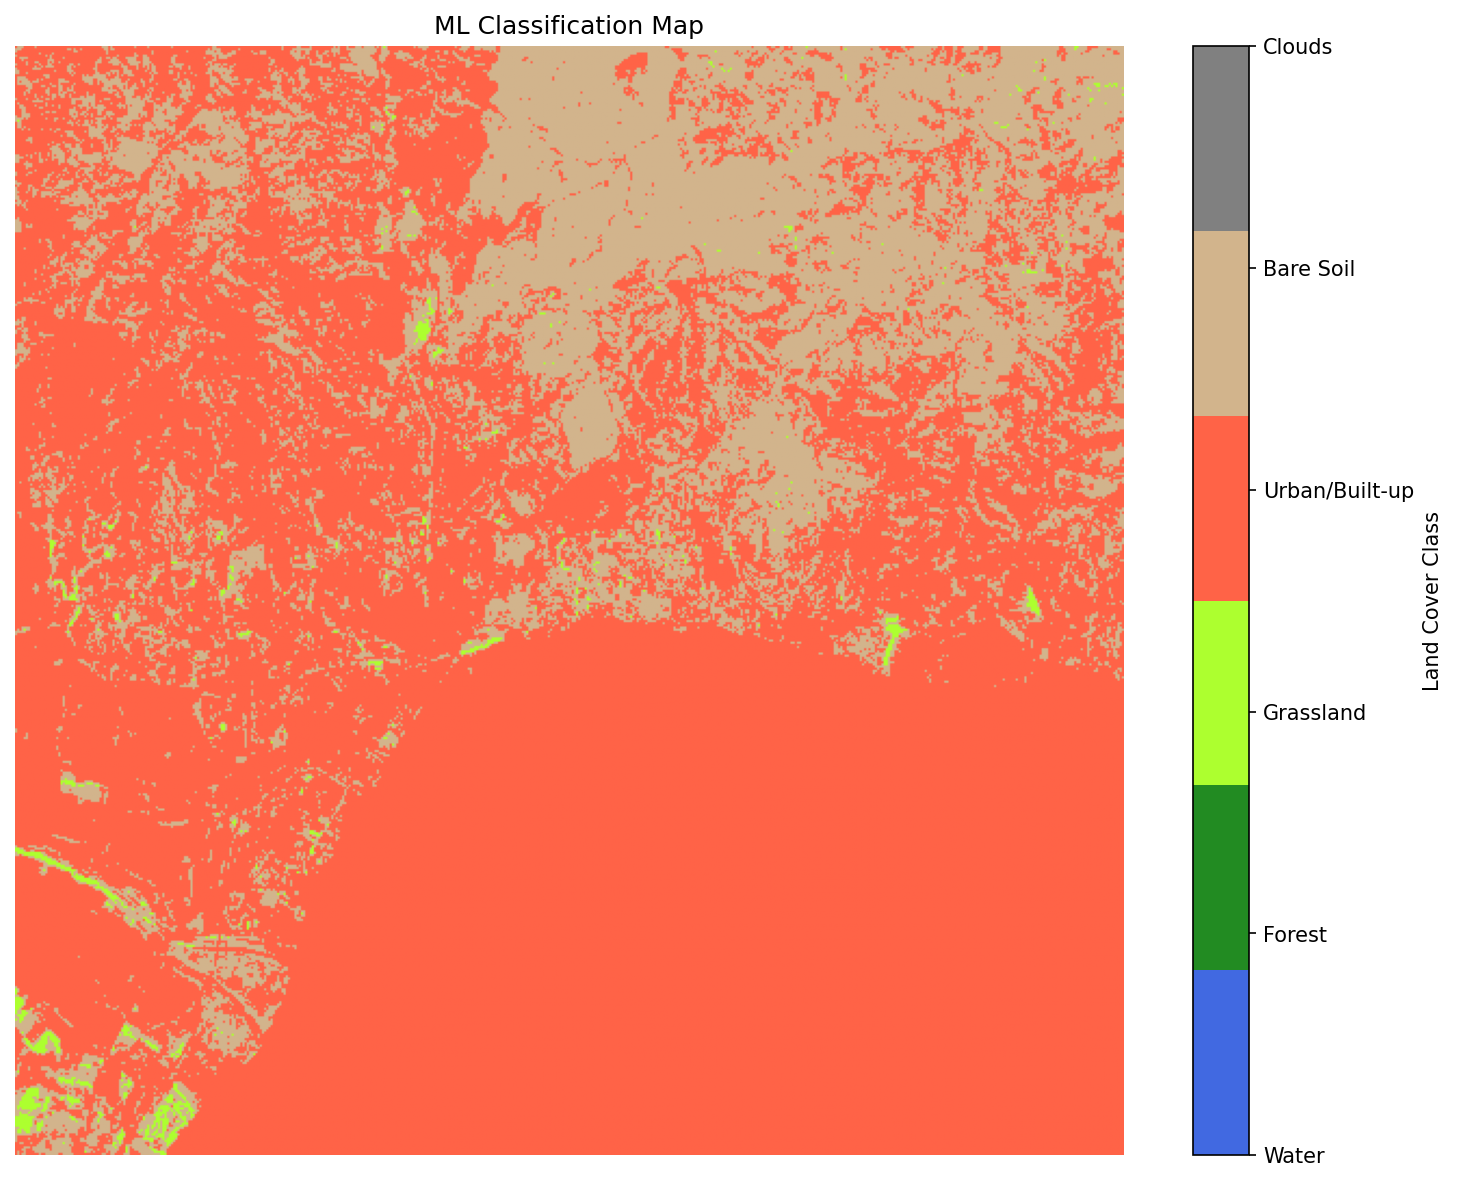
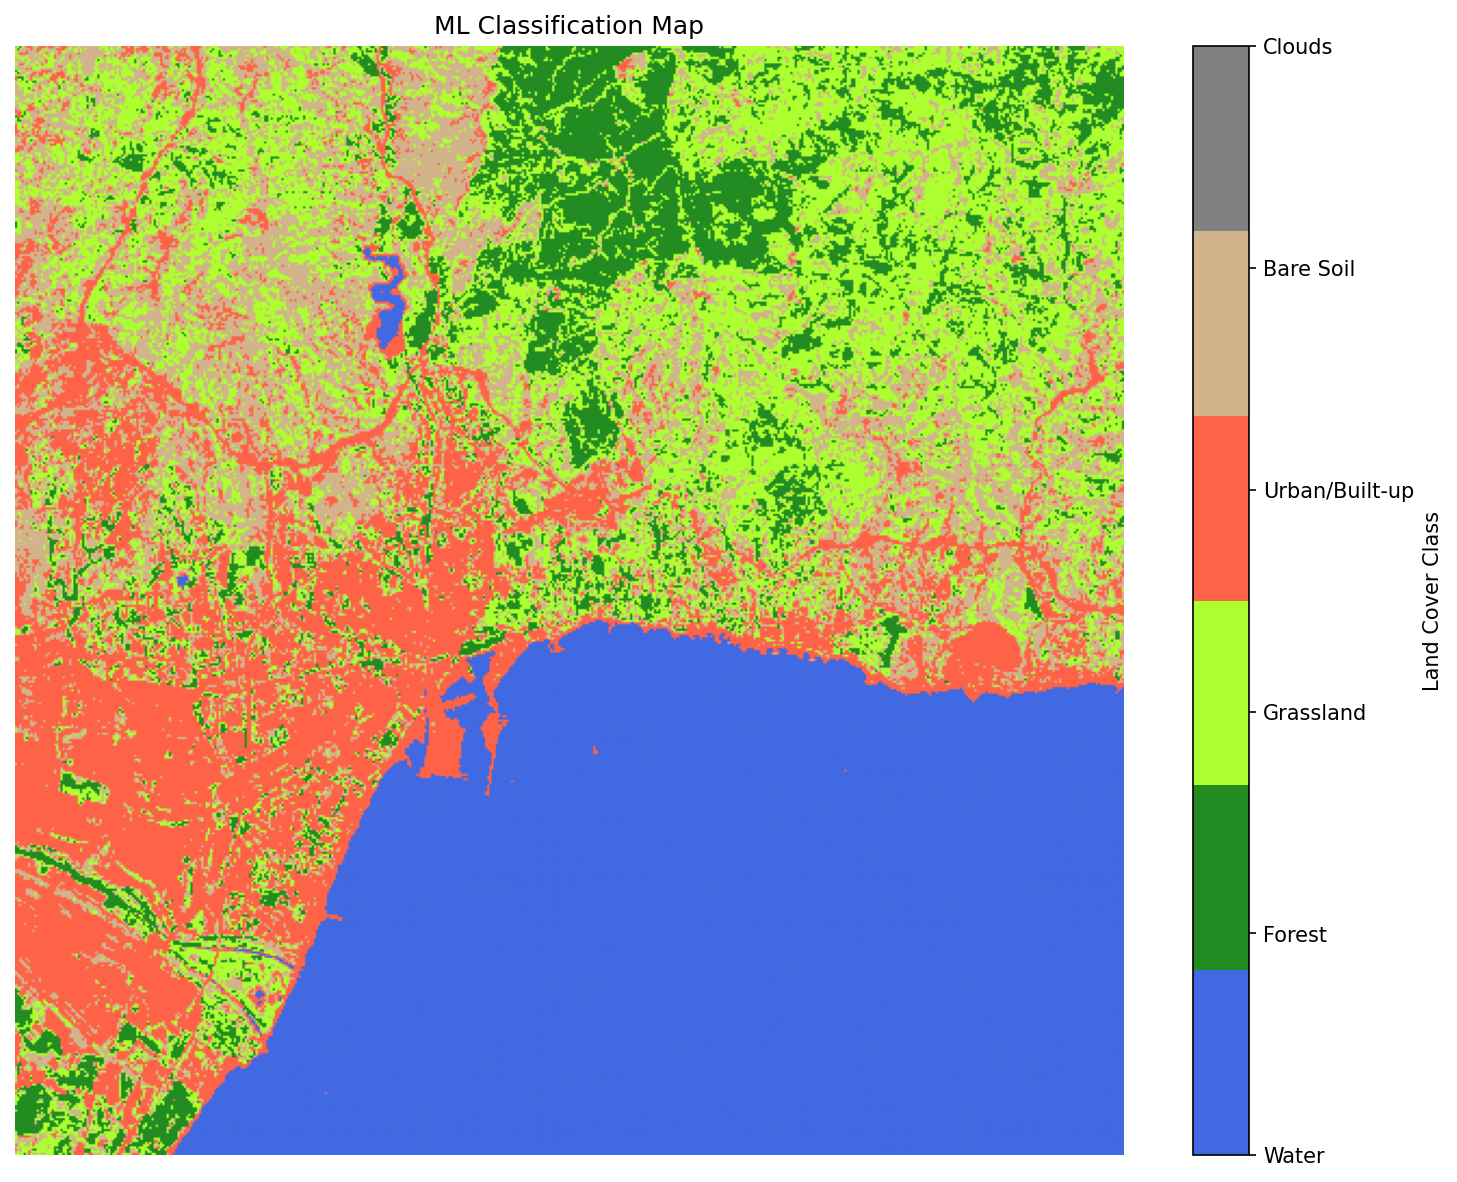
fixed scaling issue + open thread

diff --git a/main_pipeline.py b/main_pipeline.py
@@ -10,6 +10,10 @@ import time
 import logging
 from datetime import datetime
 from sklearn.model_selection import train_test_split
+
+# Use non-interactive backend to avoid tkinter threading issues with parallel jobs
+import matplotlib
+matplotlib.use('Agg')
 import matplotlib.pyplot as plt
 import matplotlib.patches as mpatches
 
@@ -299,7 +303,9 @@ class LandCoverClassificationPipeline:
             best_clf_name = list(clf.classifiers.keys())[0]
             best_clf = list(clf.classifiers.values())[0]
 
-        predictions_ml = best_clf.predict(self.features)
+        # Scale features before prediction (same scaler used during training)
+        features_scaled = clf.scaler.transform(self.features)
+        predictions_ml = best_clf.predict(features_scaled)
         self.predictions_ml = predictions_ml
         unique, counts = np.unique(predictions_ml, return_counts=True)
         for c, n in zip(unique, counts):

diff --git a/traditional_ml.py b/traditional_ml.py
@@ -19,6 +19,10 @@ from sklearn.metrics import (
     accuracy_score, precision_score, recall_score, f1_score,
     confusion_matrix, classification_report, cohen_kappa_score
 )
+
+# Use non-interactive backend to avoid tkinter threading issues with parallel jobs
+import matplotlib
+matplotlib.use('Agg')
 import matplotlib.pyplot as plt
 import seaborn as sns
 from tqdm import tqdm
